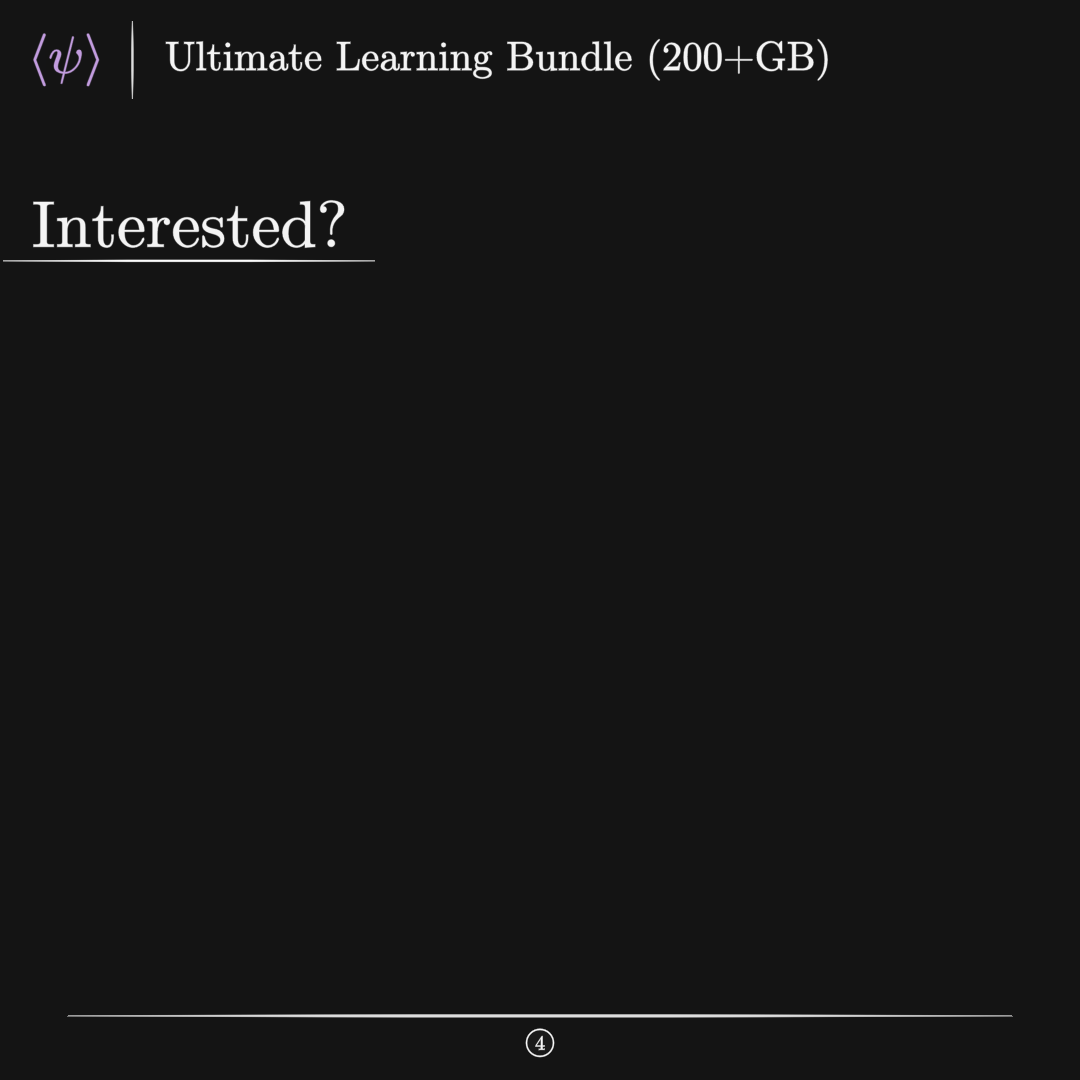
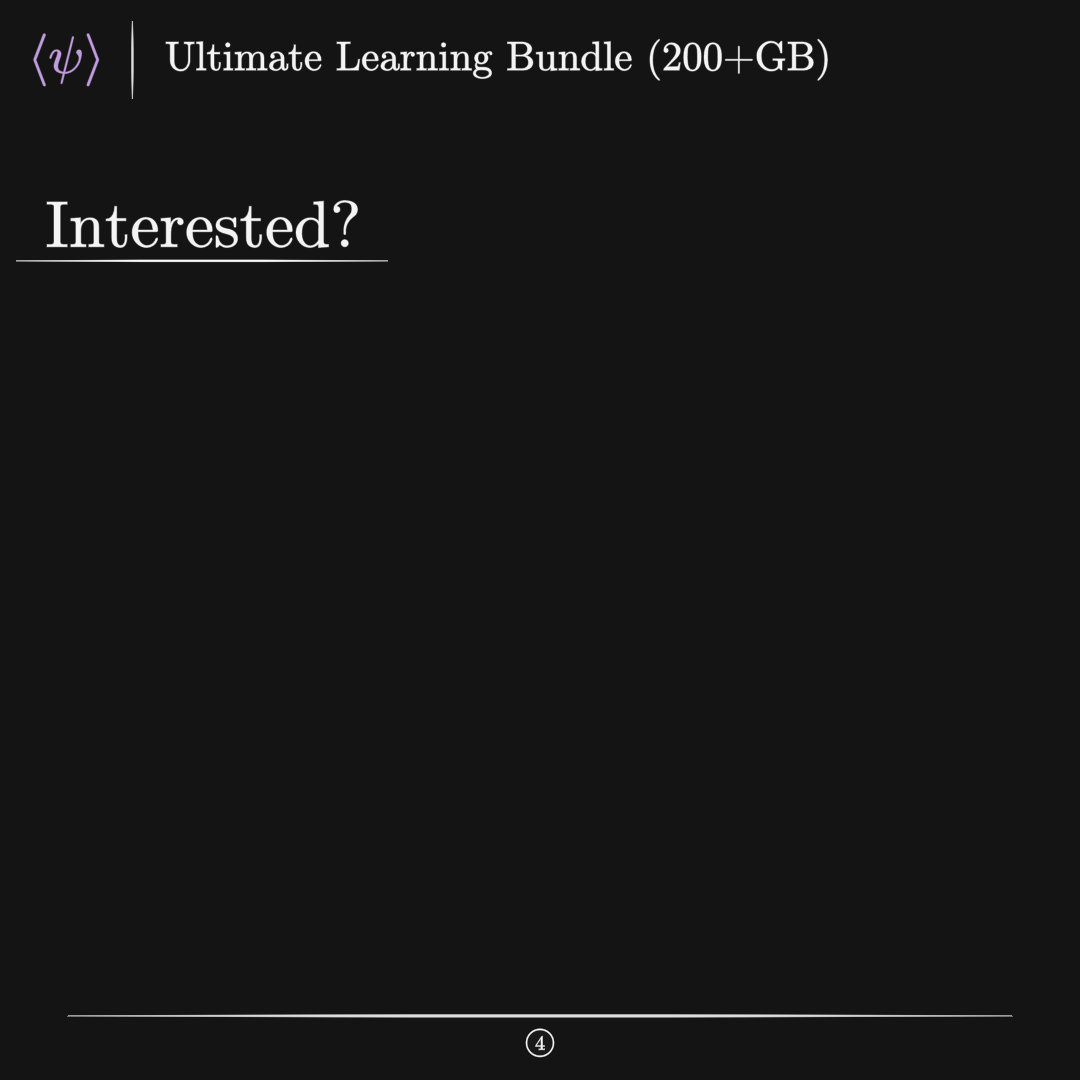
f

Changed region(s): [[0.0306, 0.1833, 0.3361, 0.2444]]

diff --git a/test.py b/test.py
@@ -151,6 +151,6 @@ class Payment(PaidTemplate):
 
     def construct(self):
         title = TexText(R"Interested?")
-        title.next_to(self.logo, DOWN, buff=LARGE_BUFF * 0.85, aligned_edge=LEFT)
+        title.next_to(self.logo, DOWN, buff=LARGE_BUFF * 0.85, aligned_edge=LEFT).shift(RIGHT * 0.1)
         under = Underline(title, stroke_width=[0.5, 1.5, 1.5, 0.5])
         self.add(title, under)
